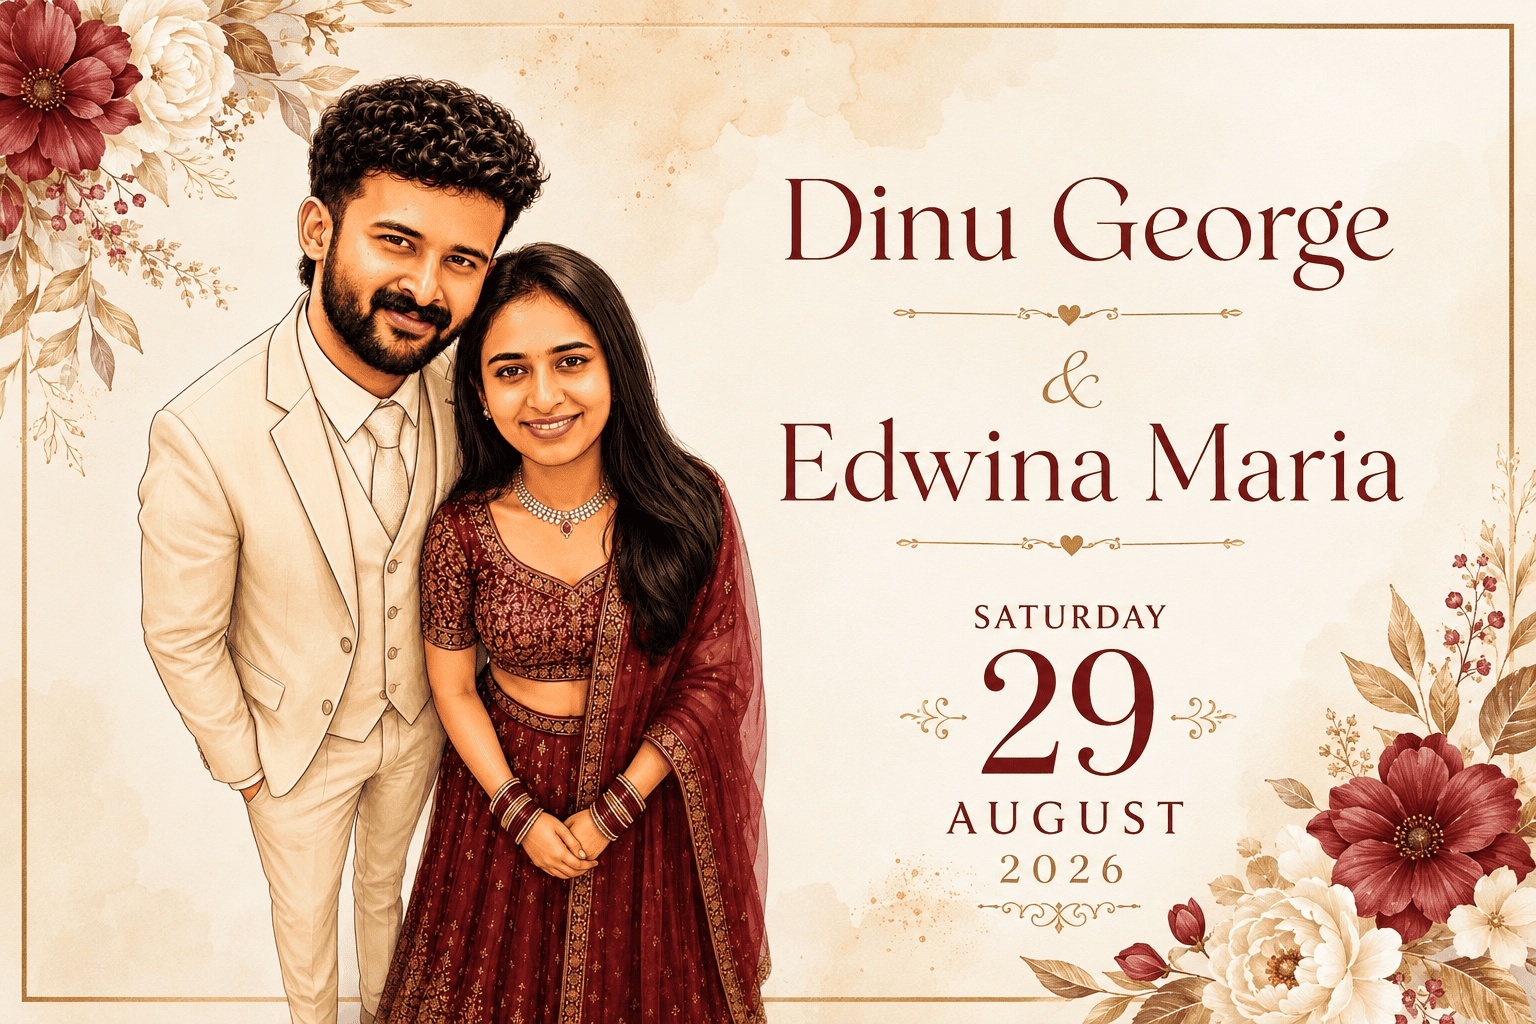
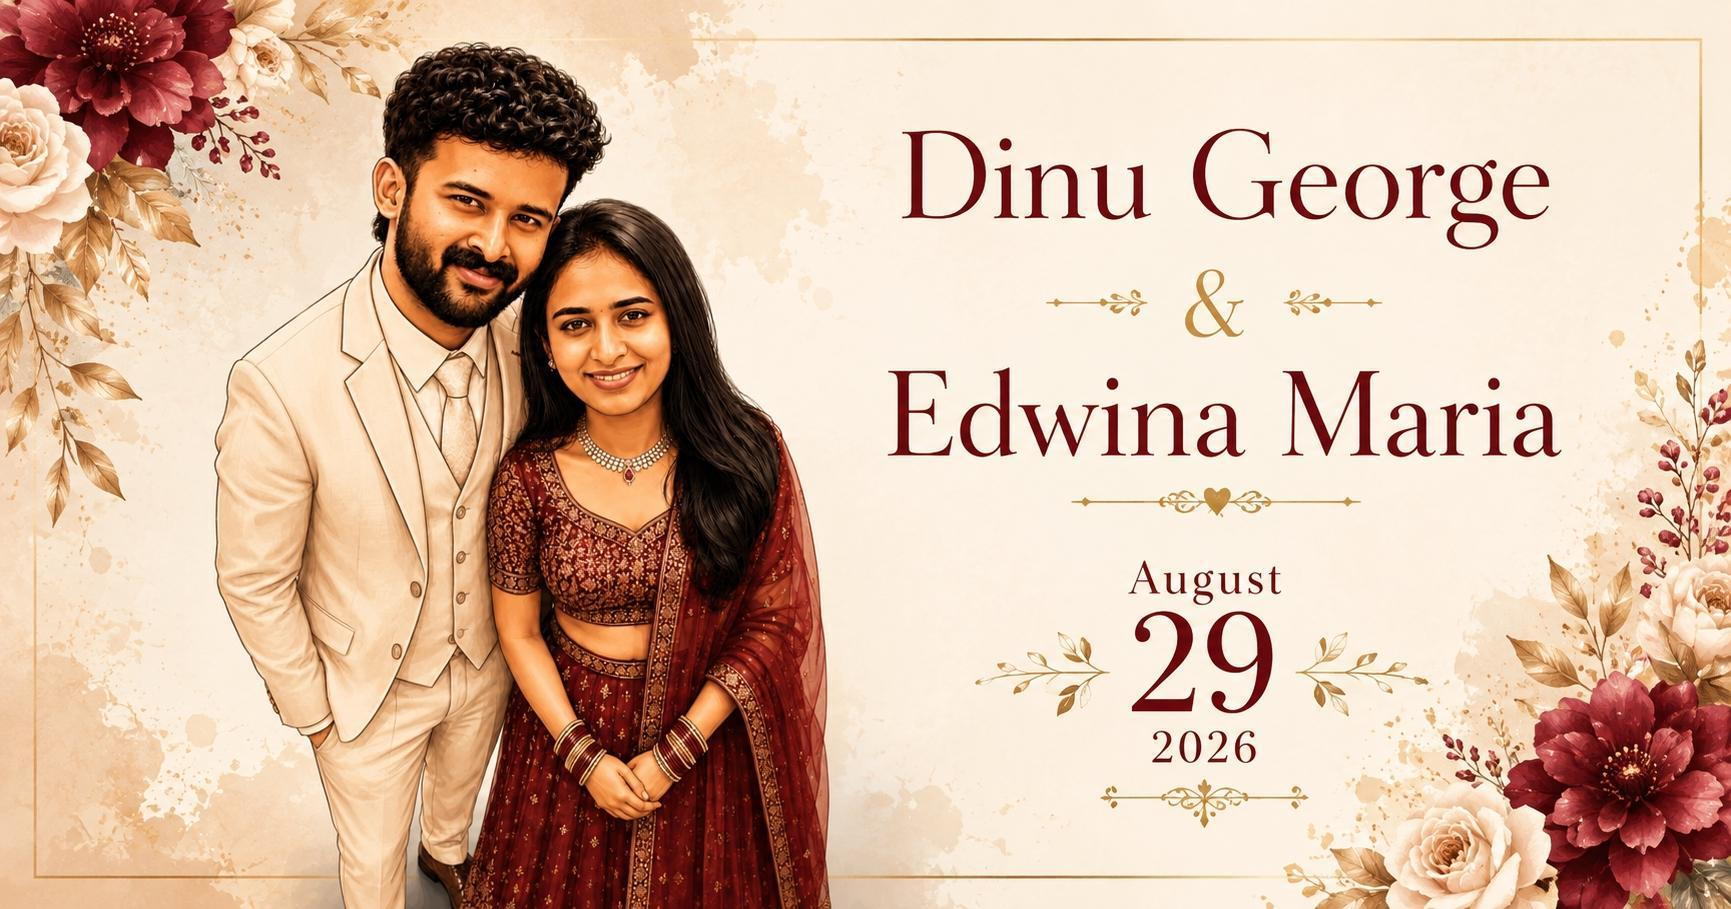
Add files via upload

diff --git a/index.html b/index.html
@@ -13,7 +13,7 @@
     <meta charset="UTF-8">
     <meta property="og:title" content="Dinu George & Edwina Maria — Wedding 2026">
     <meta property="og:description" content="With joy, we invite you to celebrate our wedding. 💒">
-    <meta property="og:image" content="https://dinuwedsedwina.github.io/wedding-invitation/assets/thumbnail.jpg?v=5">
+    <meta property="og:image" content="https://dinuwedsedwina.github.io/wedding-invitation/assets/thumbnail.jpg?v=6">
     <meta property="og:image:width" content="1200">
     <meta property="og:image:height" content="630">
     <meta property="og:type" content="website">
@@ -23,7 +23,7 @@
     <meta name="twitter:card" content="summary_large_image">
     <meta name="twitter:title" content="Dinu George & Edwina Maria — Wedding 2026">
     <meta name="twitter:description" content="Join us for our special day ❤">
-    <meta name="twitter:image" content="https://dinuwedsedwina.github.io/wedding-invitation/assets/thumbnail.jpg?v=5">
+    <meta name="twitter:image" content="https://dinuwedsedwina.github.io/wedding-invitation/assets/thumbnail.jpg?v=6">
 </head>
 <body>
     <!-- Audio Element for Background Music -->
